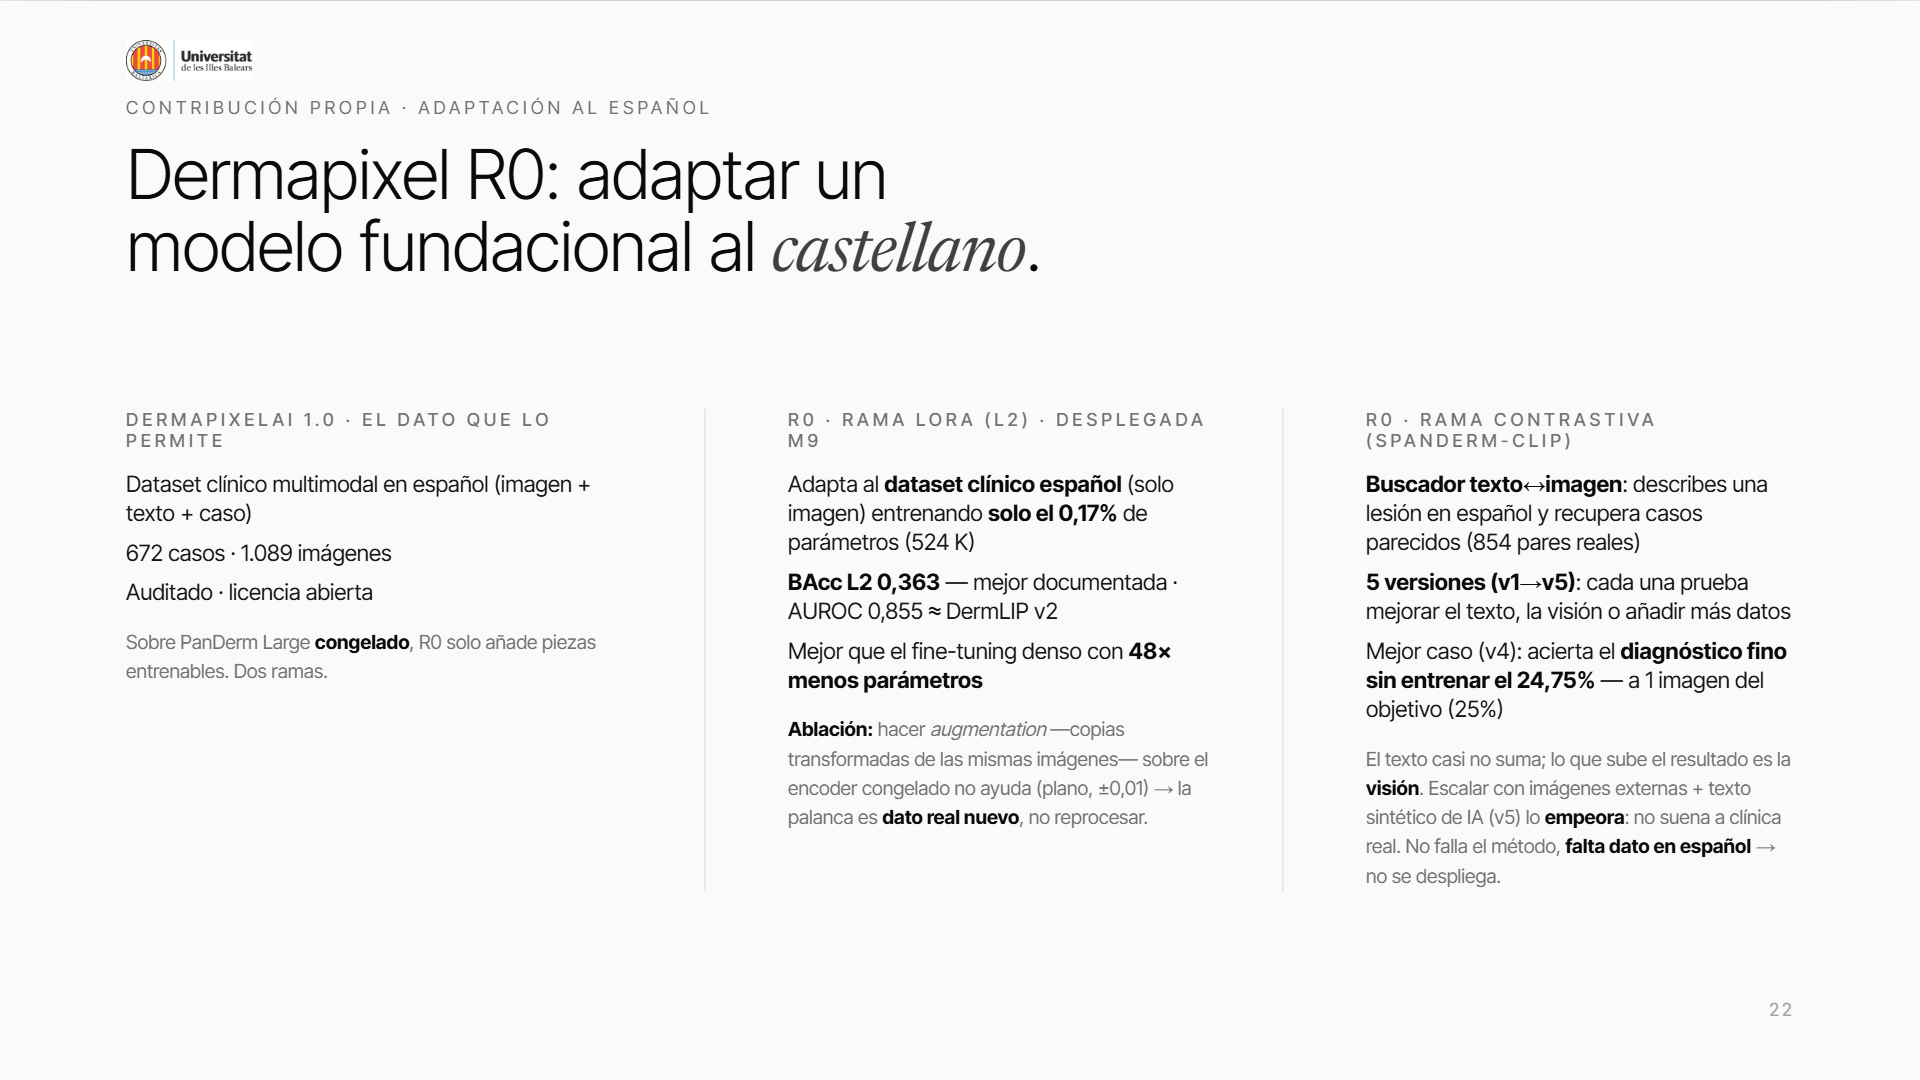
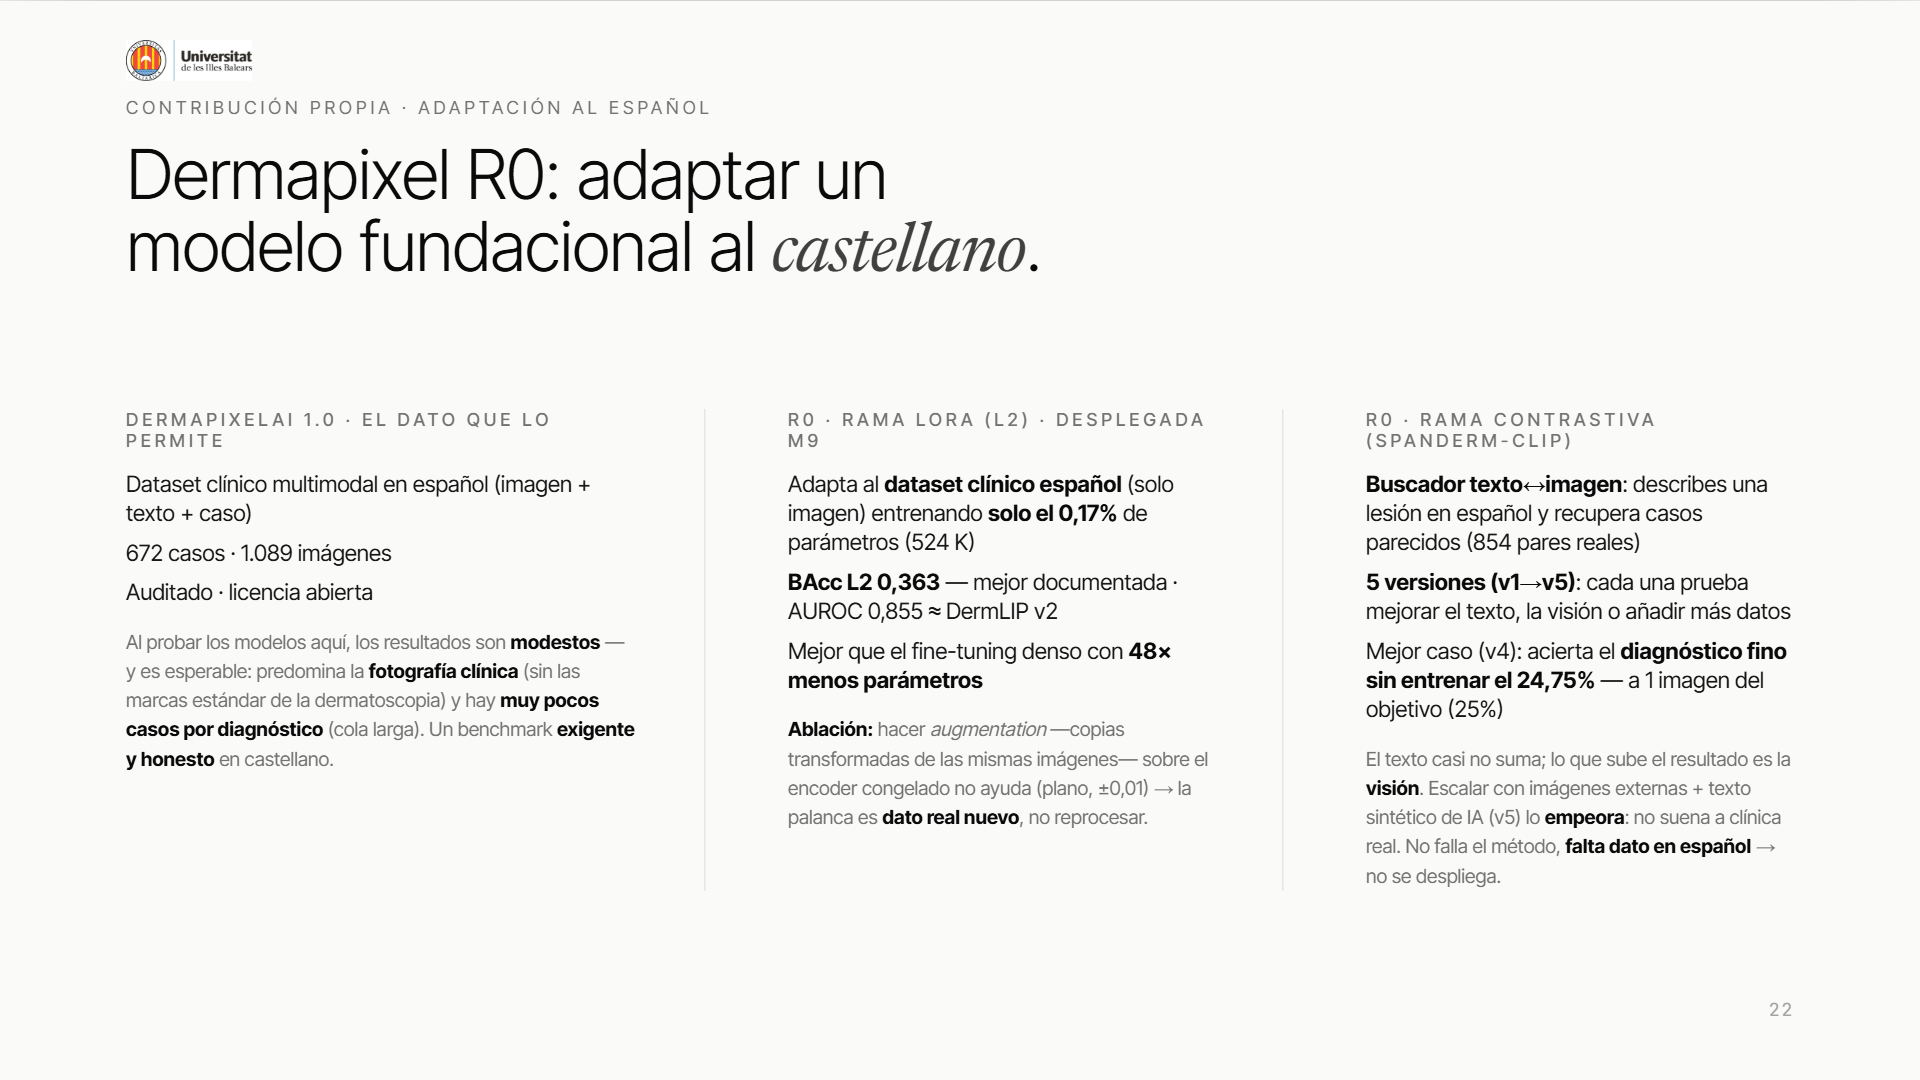
deck slide22: columna DermapixelAI mas honesta (quita nota PanDerm Large; anade resultados modestos por foto clinica + pocos casos + cola larga)

Changed region(s): [[0.0625, 0.5806, 0.3438, 0.7333]]

diff --git a/deck/index.html b/deck/index.html
@@ -880,7 +880,7 @@
   </section>
 
   <!-- ═══ Slide 21 · Contribuciones ═══ -->
-  <section class="slide" data-notes="Además de evaluar, aporto recursos propios. DermapixelAI 1.0: un dataset clínico en español, multimodal —imagen, texto y caso—, 672 casos y 1.089 imágenes, auditado y liberado; es el dato que hace posible lo siguiente. Y Dermapixel R0, la adaptación de PanDerm al castellano, sobre el encoder congelado, con dos ramas. La supervisada, con LoRA: entrena solo el 0,17% de los parámetros, 524 mil, y logra la mejor balanced accuracy documentada en subcategoría, 0,363, empatando en AUROC a DermLIP; rinde mejor que el fine-tuning denso con 48 veces menos parámetros. Y una ablación clara: aumentar el train sobre el encoder congelado no aporta nada —resultado plano, más o menos una centésima—; la palanca son datos reales nuevos, no reprocesar. La segunda rama, contrastiva, SpanDerm-CLIP: un buscador texto-imagen en español, cinco iteraciones sobre 854 pares reales; llega a un zero-shot de subcategoría fina de 0,2475, a una sola imagen del objetivo. Tres hallazgos: mejorar el texto apenas ayuda, lo que mueve la aguja es la parte visual, y escalar con quince mil imágenes externas y descripciones sintéticas generadas por IA empeora el encaje en castellano. No generaliza al uso real, así que no se despliega. La conclusión honesta: no falla el método, falta dato en español.">
+  <section class="slide" data-notes="Además de evaluar, aporto recursos propios. DermapixelAI 1.0: un dataset clínico en español, multimodal —imagen, texto y caso—, 672 casos y 1.089 imágenes, auditado y liberado; es el dato que hace posible lo siguiente. Y seré honesto: al probar los modelos sobre este material los resultados son modestos, algo esperable porque predomina la fotografía clínica, sin las marcas estándar de la dermatoscopia, y hay muy pocos casos por diagnóstico; es un benchmark exigente y honesto en castellano. Y Dermapixel R0, la adaptación de PanDerm al castellano, sobre el encoder congelado, con dos ramas. La supervisada, con LoRA: entrena solo el 0,17% de los parámetros, 524 mil, y logra la mejor balanced accuracy documentada en subcategoría, 0,363, empatando en AUROC a DermLIP; rinde mejor que el fine-tuning denso con 48 veces menos parámetros. Y una ablación clara: aumentar el train sobre el encoder congelado no aporta nada —resultado plano, más o menos una centésima—; la palanca son datos reales nuevos, no reprocesar. La segunda rama, contrastiva, SpanDerm-CLIP: un buscador texto-imagen en español, cinco iteraciones sobre 854 pares reales; llega a un zero-shot de subcategoría fina de 0,2475, a una sola imagen del objetivo. Tres hallazgos: mejorar el texto apenas ayuda, lo que mueve la aguja es la parte visual, y escalar con quince mil imágenes externas y descripciones sintéticas generadas por IA empeora el encaje en castellano. No generaliza al uso real, así que no se despliega. La conclusión honesta: no falla el método, falta dato en español.">
     <img class="uib-mark" src="assets/537341_escudoUIB_horizontal.png" alt="Universitat de les Illes Balears">
     <div class="head"><div class="kicker">Contribución propia · adaptación al español</div>
       <h2 class="biglead">Dermapixel R0: adaptar un modelo fundacional al <span class="serif">castellano</span>.</h2></div>
@@ -889,7 +889,7 @@
         <div class="li" style="font-size:15px; margin:7px 0">Dataset clínico multimodal en español (imagen + texto + caso)</div>
         <div class="li" style="font-size:15px; margin:7px 0">672 casos · 1.089 imágenes</div>
         <div class="li" style="font-size:15px; margin:7px 0">Auditado · licencia abierta</div>
-        <div class="muted" style="margin-top:14px; font-size:13px; line-height:1.5">Sobre PanDerm Large <b style="color:var(--ink)">congelado</b>, R0 solo añade piezas entrenables. Dos ramas.</div></div></div>
+        <div class="muted" style="margin-top:14px; font-size:13px; line-height:1.5">Al probar los modelos aquí, los resultados son <b style="color:var(--ink)">modestos</b> — y es esperable: predomina la <b style="color:var(--ink)">fotografía clínica</b> (sin las marcas estándar de la dermatoscopia) y hay <b style="color:var(--ink)">muy pocos casos por diagnóstico</b> (cola larga). Un benchmark <b style="color:var(--ink)">exigente y honesto</b> en castellano.</div></div></div>
       <div class="divleft"><div class="eyebrow">R0 · rama LoRA (L2) · desplegada M9</div><div style="margin-top:12px">
         <div class="li" style="font-size:15px; margin:7px 0">Adapta al <b style="color:var(--ink)">dataset clínico español</b> (solo imagen) entrenando <b style="color:var(--ink)">solo el 0,17%</b> de parámetros (524 K)</div>
         <div class="li" style="font-size:15px; margin:7px 0"><b style="color:var(--ink)">BAcc L2 0,363</b> — mejor documentada · AUROC 0,855 ≈ DermLIP v2</div>
